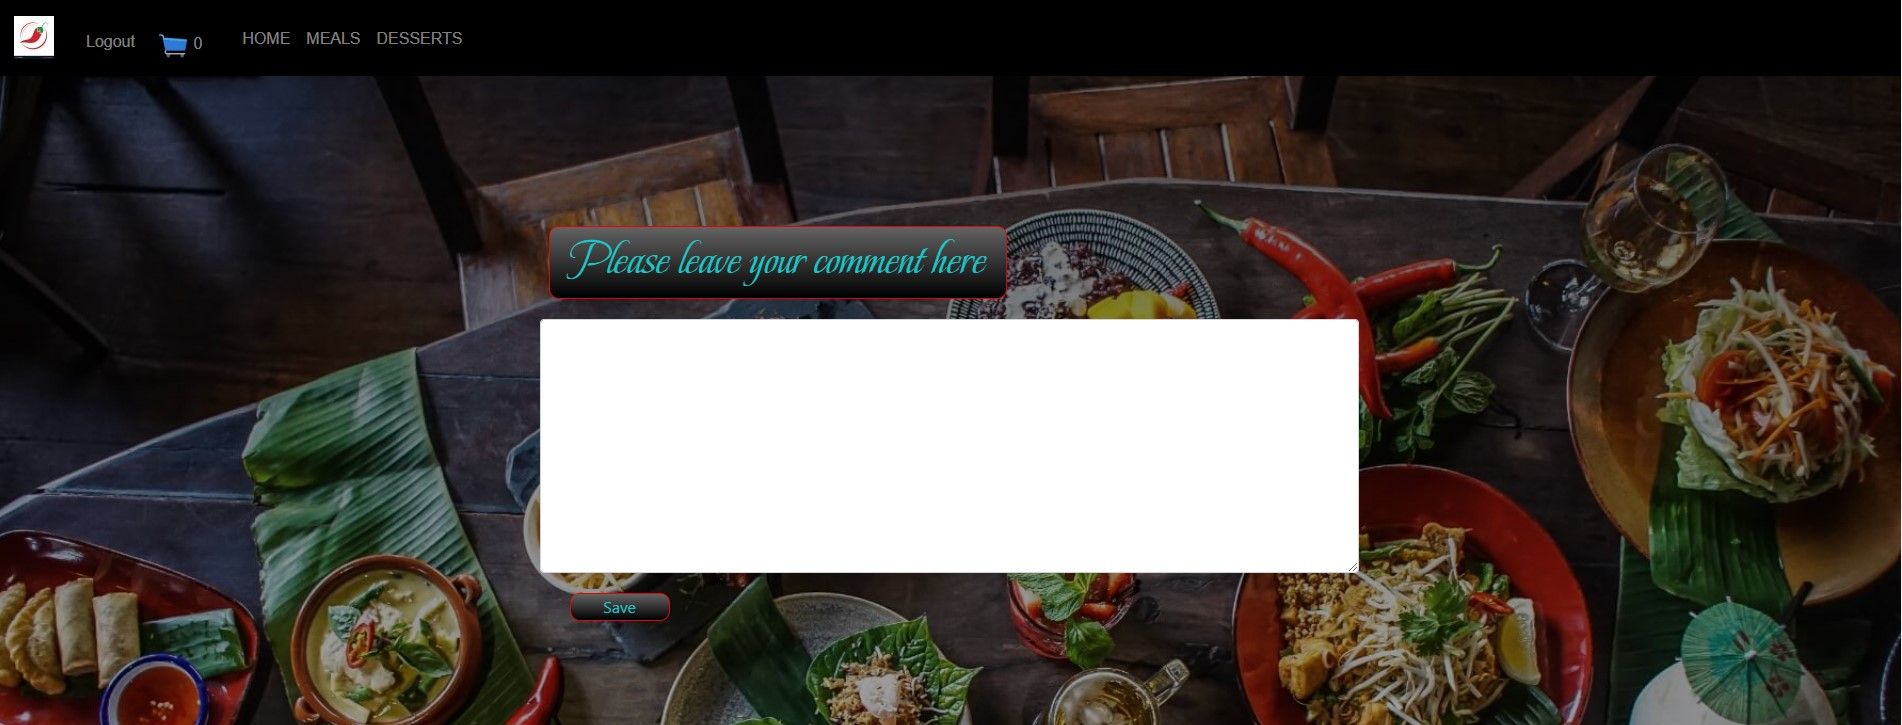
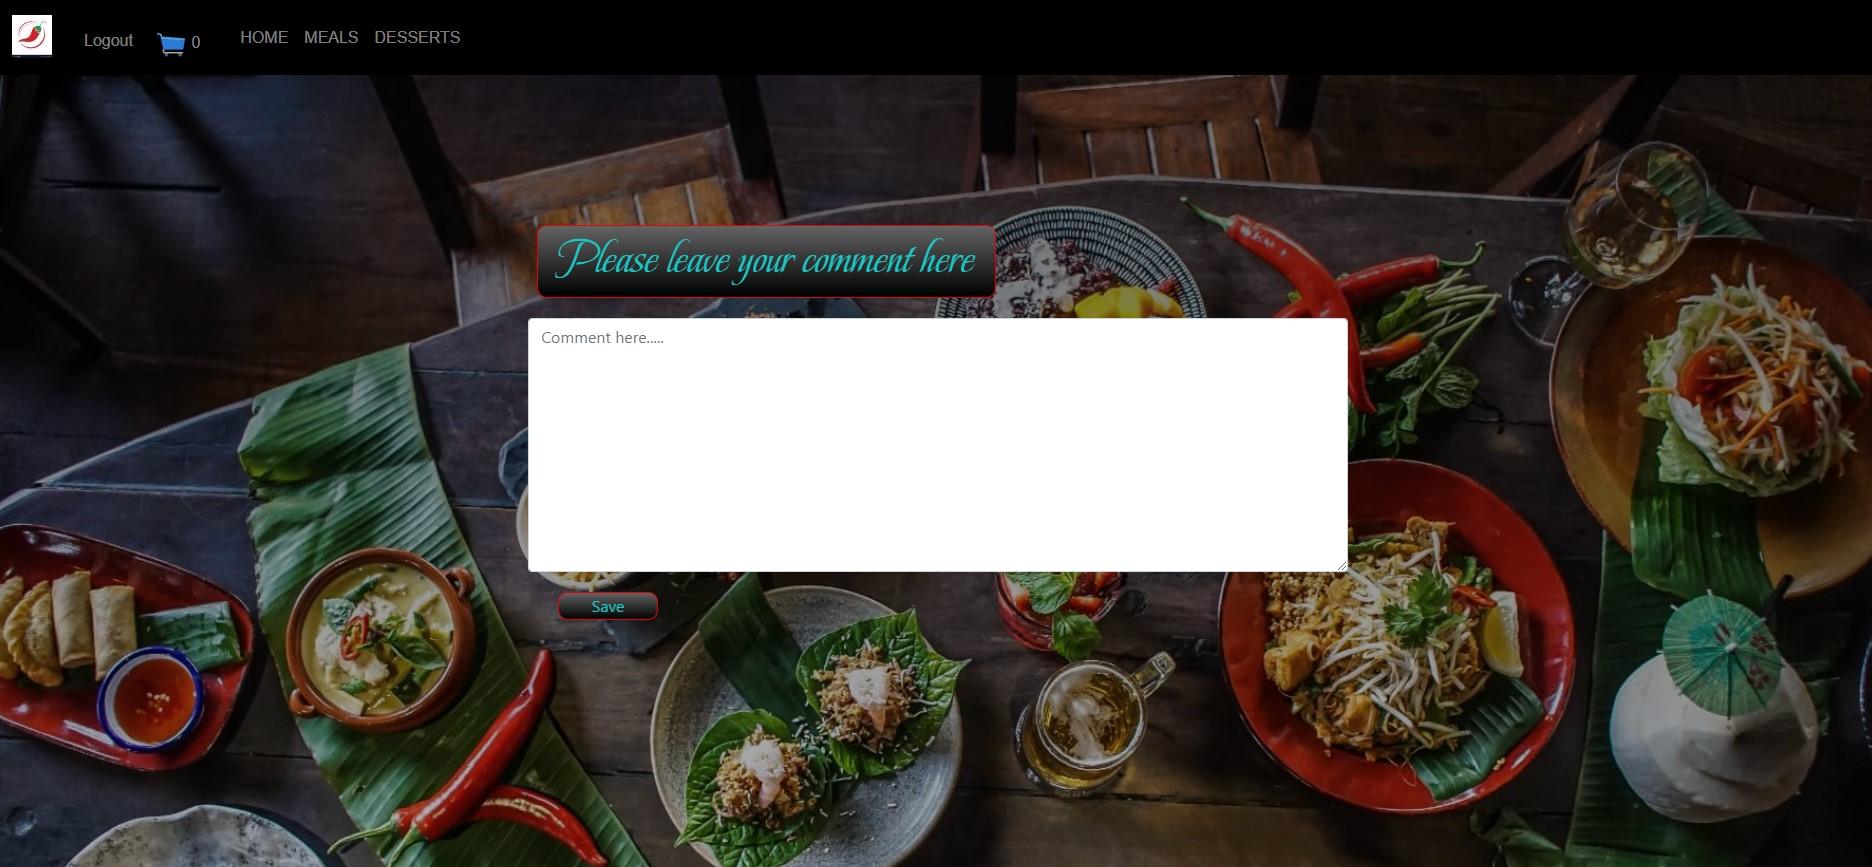
fix issues with comments edits and delete for meals and desserts

diff --git a/thai/templates/thai/dessertcomment_confirm_delete.html b/thai/templates/thai/dessertcomment_confirm_delete.html
@@ -16,13 +16,11 @@
 
             <p>Are you sure you want to Delete comment?</p>
 
-            <form method="post" action="{% url 'dessert_view' %}">
+            <form method="post">
                 {% csrf_token %}
-                {% if redirect_field_value %}
-                <input type="hidden" name="{{ redirect_field_name }}" value="{{ redirect_field_value }}" />
-                {% endif %}
-                <button type="submit" class="btn-danger pb-1">{% trans 'Delete' %}</button>
-                <button type="submit" class="btn-secondary pb-1">{% trans 'cancel' %}</button>
+                {{ form }}
+                <button type="submit" class="btn-danger pb-1">Delete</button>
+                <a href="{% url 'dessert_view' %}" class="btn-secondary p-1 pb-2">Cancel</a>
             </form>
             <div class="col-md-4"></div>
         </div>

diff --git a/thai/templates/thai/comment_confirm_delete.html b/thai/templates/thai/comment_confirm_delete.html
@@ -16,13 +16,11 @@
 
             <p>Are you sure you want to Delete comment?</p>
 
-            <form method="post" action="{% url 'meal_view' %}">
+            <form method="post">
                 {% csrf_token %}
-                {% if redirect_field_value %}
-                <input type="hidden" name="{{ redirect_field_name }}" value="{{ redirect_field_value }}" />
-                {% endif %}
-                <button type="submit" class="btn-danger pb-1">{% trans 'Delete' %}</button>
-                <button type="submit" class="btn-secondary pb-1">{% trans 'cancel' %}</button>
+                {{ form }}
+                <button type="submit" class="btn-danger pb-1">Delete</button>
+                <a href="{% url 'meal_view' %}" class="btn-secondary p-1 pb-2">Cancel</a>
             </form>
             <div class="col-md-4"></div>
         </div>

diff --git a/thai/templates/thai/meal_detail.html b/thai/templates/thai/meal_detail.html
@@ -24,8 +24,8 @@
 
                 <p> - {{ comment.body }} - </p>
                 <div class="meal-edit-delete">
-                    <a href="{% url 'comment_update' comment.pk %} ">Edit</a>
-                    <a href="{% url 'comment_delete' comment.pk %} ">Delete</a>
+                    <a href="{% url 'comment_update' comment.pk meal.pk %} ">Edit</a>
+                    <a href="{% url 'comment_delete' comment.pk meal.pk %} ">Delete</a>
                 </div>
                 {% endfor %}
                 {% endif %}

diff --git a/thai/templates/thai/dessert_detail.html b/thai/templates/thai/dessert_detail.html
@@ -25,8 +25,8 @@
                 <p> - {{ comment.body }} - </p>
 
                 <div class="dessert-edit-delete">
-                    <a href="{% url 'comment_update' comment.pk %} ">Edit</a>
-                    <a href="{% url 'comment_delete' comment.pk %} ">Delete</a>
+                    <a href="{% url 'dessert_comment_update' comment.pk dessert.pk %} ">Edit</a>
+                    <a href="{% url 'dessert_comment_delete' comment.pk dessert.pk %} ">Delete</a>
                 </div>
 
                 {% endfor %}

diff --git a/thai/templates/thai/comment_form.html b/thai/templates/thai/comment_form.html
@@ -20,7 +20,7 @@
 
             <form method="post">
                 {% csrf_token %}
-                <input class="username-text mb-3 rounded" type="text" name="username" placeholder="Username" required>
+
                 {{ form.body }}
 
                 <input class="save-button" type="submit" value="Save">

diff --git a/thai/templates/thai/dessertcomment_form.html b/thai/templates/thai/dessertcomment_form.html
@@ -20,7 +20,7 @@
 
             <form method="post">
                 {% csrf_token %}
-                <input class="username-text mb-3 rounded" type="text" name="username" placeholder="Username" required>
+
                 {{ form.body }}
 
                 <input class="save-button" type="submit" value="Save">

diff --git a/thai/urls.py b/thai/urls.py
@@ -6,13 +6,13 @@ urlpatterns = [
     path('dessert/', views.dessert_view, name='dessert_view'),
     path('dessert/<int:pk>/', views.dessertDetailView.as_view(), name='dessert_detail'),
     path('dessert-comment-create/<int:pk>', views.dessertCommentCreateView.as_view(), name='dessert_comment_create'),
-    path('dessert-comment-update/<int:pk>/', views.dessertCommentUpdateView.as_view(), name='dessert_comment_update'),
-    path('dessert-comment-delete/<int:pk>/', views.dessertCommentDeleteView.as_view(), name='dessert_comment_delete'),
+    path('dessert-comment-update/<int:pk>/<int:id>', views.dessertCommentUpdateView.as_view(), name='dessert_comment_update'),
+    path('dessert-comment-delete/<int:pk>/<int:id>', views.dessertCommentDeleteView.as_view(), name='dessert_comment_delete'),
     path('meal/', views.meal_view, name='meal_view'),
     path('meal/<int:pk>/', views.mealDetailView.as_view(), name='meal_detail'),
     path('comment-create/<int:pk>', views.commentCreateView.as_view(), name='comment_create'),
-    path('comment-update/<int:pk>/', views.commentUpdateView.as_view(), name='comment_update'),
-    path('comment-delete/<int:pk>/', views.commentDeleteView.as_view(), name='comment_delete'),
+    path('comment-update/<int:pk>/<int:id>', views.commentUpdateView.as_view(), name='comment_update'),
+    path('comment-delete/<int:pk>/<int:id>', views.commentDeleteView.as_view(), name='comment_delete'),
     path('cart/', views.cart_view, name='cart_view'),
     path('signup/', views.signup_view, name='signup_view'),
     path('login/', views.login_view, name='login_view'),

diff --git a/thai/views.py b/thai/views.py
@@ -73,18 +73,16 @@ class commentUpdateView(LoginRequiredMixin, UpdateView):
     form_class = CommentForm
 
     def get_success_url(self):
-        pk = self.kwargs['pk']
+        pk = self.kwargs['id']
         return reverse_lazy('meal_detail', kwargs={'pk': pk})
 
 
 class commentDeleteView(LoginRequiredMixin, DeleteView):
     model = Comment
-    context_object_name = 'comment'
-    form_class = CommentForm
 
     def get_success_url(self):
-        pk = self.kwargs['pk']
-        return reverse_lazy('meal_detail', kwargs={'pk': pk})
+        pk = self.kwargs['id']
+        return reverse_lazy('meal_detail', kwargs={'pk': self.object.meal.pk})
 
 
 class dessertCommentCreateView(LoginRequiredMixin, CreateView):
@@ -108,19 +106,16 @@ class dessertCommentUpdateView(LoginRequiredMixin, UpdateView):
     form_class = DessertCommentForm
 
     def get_success_url(self):
-        pk = self.kwargs['pk']
-        return reverse_lazy('dessert_detail', kwargs={'pk': pk})
+        pk = self.kwargs['id']
+        return reverse_lazy('dessert_detail', kwargs={'pk': self.object.dessert.pk})
 
 
 class dessertCommentDeleteView(LoginRequiredMixin, DeleteView):
     model = DessertComment
-    context_object_name = 'comment'
-    form_class = DessertCommentForm
-
    
     def get_success_url(self):
-        pk = self.kwargs['pk']
-        return reverse_lazy('dessert_detail', kwargs={'pk': pk})
+        pk = self.kwargs['id']
+        return reverse_lazy('dessert_detail', kwargs={'pk': self.object.dessert.pk})
 
 
 @csrf_exempt

diff --git a/thai/models.py b/thai/models.py
@@ -31,7 +31,6 @@ class Dessert(models.Model):
 
 class Comment(models.Model):
 
-    name = models.CharField(max_length=120),
     body = models.TextField()
     meal = models.ForeignKey(Meal, on_delete=models.CASCADE, default=1)
 
@@ -40,8 +39,7 @@ class Comment(models.Model):
 
 
 class DessertComment(models.Model):
-
-    name = models.CharField(max_length=120),
+    
     body = models.TextField()
     dessert = models.ForeignKey(Dessert, on_delete=models.CASCADE, default=1)
 

diff --git a/README.md b/README.md
@@ -243,8 +243,10 @@ All fonts were used from https://fonts.google.com/ and they were Red Hat Display
 ![Meal delete page](static/media/images/meal-delete-page.jpg)
 
 ## When the user clicks the delete button on meal detail page.
+- The delete the comment button will delete and redirect to menu.
 
 ## The user then has the option to delete or cancel deletion.
+- The cancel button will just redirect to menu.
 
 - [Back to the top](#urais-thai-kitchen)
 
@@ -254,7 +256,8 @@ All fonts were used from https://fonts.google.com/ and they were Red Hat Display
 
 ![Dessert page](static/media/images/urais-kitchen-dessert.jpg)
 
-The desserts page is much the same as the meals page in layout and responsiveness. Here you can see the authentication buttons in the orders section that take the user to the relevant account page.
+- The desserts page is much the same as the meals page in layout and responsiveness and the comments, edit and delete functions. 
+- Here you can see the authentication buttons in the orders section that take the user to the relevant account page.
 
 - [Back to the top](#urais-thai-kitchen)
 
@@ -435,6 +438,10 @@ The desserts page is much the same as the meals page in layout and responsivenes
     - Issue with Posting to database.
 - ## **FIX**... 
     - Researched the 'POST' method on Stack overflow and came across Ajax function this seemed to fix the issue.
+    - ## **BUG**... 
+    - Issue comment,edit and delete function.
+- ## **FIX**... 
+    - I sort the help of tutor support which helped me set a pk: to id the comments, the edits and deleting capability.
 
 ---
 
